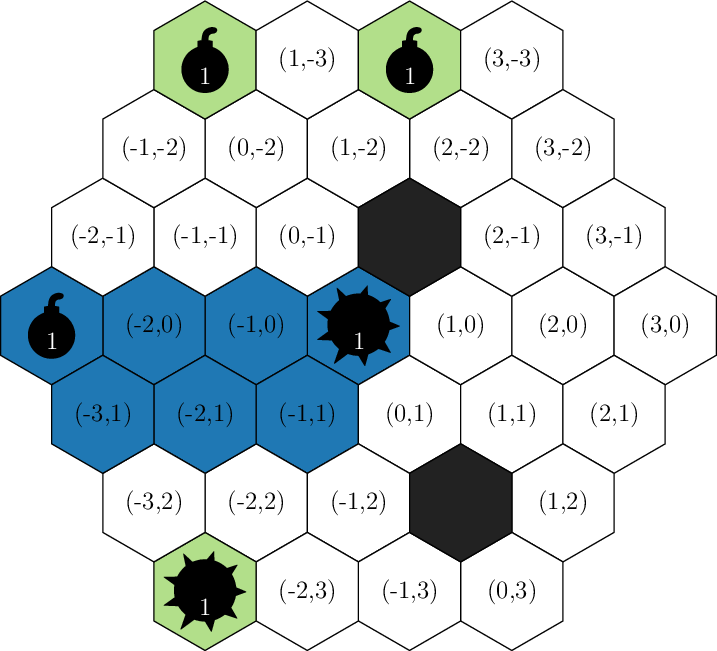
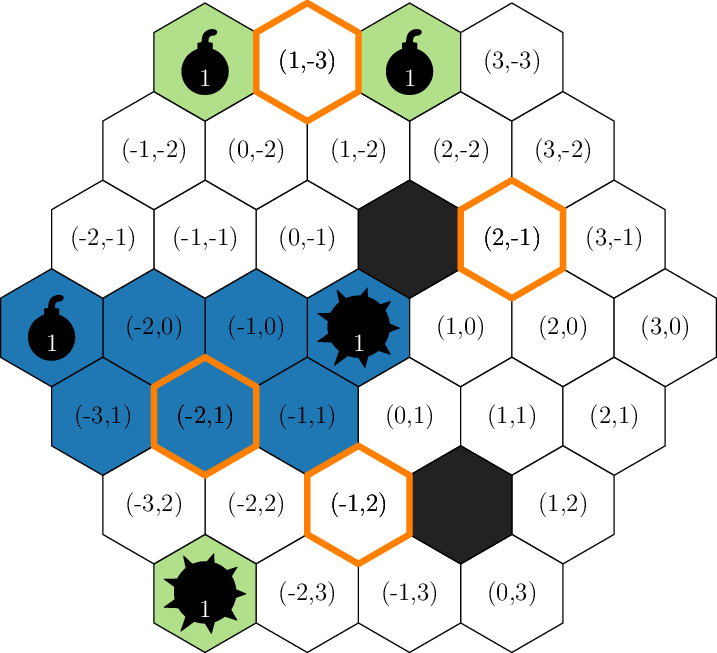
[doc] simultaneous explosions: use gif

diff --git a/docs/game.rst b/docs/game.rst
@@ -133,17 +133,11 @@ This is how the color of an exploded cell is determined by hexabomb in case of s
 2. If all the bombs of the set of the closest bombs to that cell have the same color, the cell is colored by the color of the bombs.
 3. Otherwise (e.g., if any two bombs of the set of the closest bombs to that cell have different colors), the cell color is turned to neutral.
 
-Simultaneous explosions are figured just below. Here is the board before the explosions.
+Simultaneous explosions are figured just below.
 
-.. image:: img/explosion_simultaneous_turn1.png
+.. image:: img/explosion_simultaneous.gif
    :scale: 100 %
-   :alt: figuration of simultaneous explosions (initial board)
-
-And this is the board after the explosions.
-
-.. image:: img/explosion_simultaneous_turn2.png
-   :scale: 100 %
-   :alt: figuration of simultaneous explosions (after explosions)
+   :alt: figuration of simultaneous explosions
 
 Most of the exploded cells are closer to one bomb from the others and take the bomb's color.
 The exploded cells that are at the same distance to multiple bombs are thickly bordered orange.
